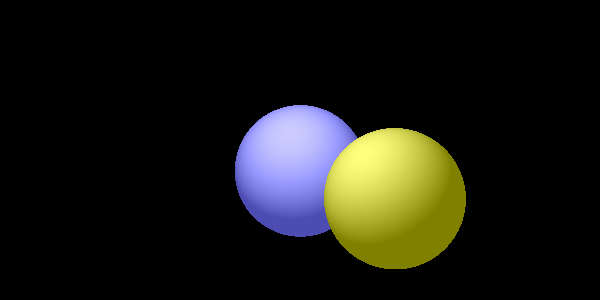
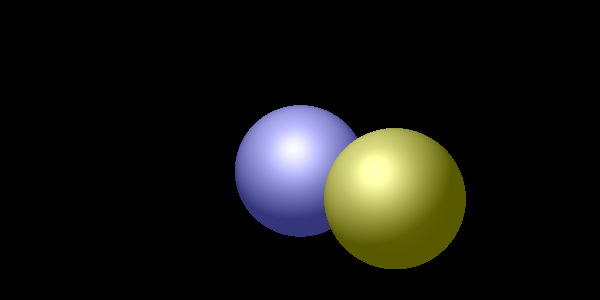
specular reflection

Changed region(s): [[0.39, 0.33, 0.78, 0.9]]

diff --git a/raytracer.py b/raytracer.py
@@ -1,4 +1,5 @@
 import torch
+from torch.nn.functional import normalize
 
 shaded = lambda im: (im != 0).any(dim=-1)
 
@@ -46,21 +47,21 @@ class Camera:
         origin = torch.stack([d, -w, -h], dim=-1)
         eye = torch.tensor([-self.focus, 0, 0])
         dir = origin - eye
-        dir = dir @ ry.T @ rz.T
-        dir = dir / dir.norm(dim=-1, keepdim=True)
+        dir = normalize(dir @ ry.T @ rz.T, dim=-1)
 
         origin = origin @ ry.T @ rz.T
         origin = origin + self.center
 
         return Ray(origin, dir)
     
-
 class Sphere:
-    def __init__(self, center, radius, ambient, diffuse):
+    def __init__(self, center, radius, ambient, diffuse, specular, specular_n):
         self.center = torch.tensor(center)
         self.radius = torch.tensor(radius)
         self.ambient = torch.tensor(ambient)
         self.diffuse = torch.tensor(diffuse)
+        self.specular = torch.tensor(specular)
+        self.specular_n = torch.tensor(specular_n)
     
     def intersect(self, ray):
         ray_to_center = self.center - ray.origin
@@ -73,8 +74,7 @@ class Sphere:
         return hit_point_dist
 
     def shade(self, ray, mask, z_buffer, scene):
-        color = torch.zeros([*ray.dim, 3])
-        color[mask] = self.ambient * scene.ambient
+        ambient = self.ambient * scene.ambient
 
         light_center = [light.center for light in scene.lights]
         light_center = torch.stack(light_center, dim=0).unsqueeze(0)
@@ -84,13 +84,18 @@ class Sphere:
         hit_point = ray.origin + ray.dir * z_buffer.unsqueeze(-1)
         hit_point = hit_point[mask].unsqueeze(1)
         normal = (hit_point - self.center) / self.radius
-        to_light = light_center - hit_point
-        to_light /= to_light.norm(dim=-1, keepdim=True)
+        to_light = normalize(light_center - hit_point, dim=-1)
         inner_prod = (normal * to_light).sum(-1).unsqueeze(-1)
         inner_prod[inner_prod < 0] = 0
         diffuse = self.diffuse * inner_prod * light_color
-        color[mask] += diffuse.sum(dim=1)
-        
+
+        reflection_light = normalize(2 * normal - to_light, dim=-1)
+        inner_prod = (-ray.dir[mask].unsqueeze(1) * reflection_light).sum(dim=-1, keepdim=True)
+        inner_prod[inner_prod < 0] = 0
+        specular = self.specular * inner_prod**self.specular_n * light_color
+
+        color = torch.zeros([*ray.dim, 3])
+        color[mask] += ambient + diffuse.sum(dim=1) + specular.sum(dim=1)
         return color
 
 

diff --git a/run.py b/run.py
@@ -4,11 +4,11 @@ from raytracer import Camera, Light, Sphere, Scene, render
 
 
 background = [0, 0, 0.]
-ambient = [1, 1, 1]
+ambient = [0.7, 0.7, 0.7]
 camera = Camera([0,0,50], [100,0,10], ppi=3)
 light = Light([30, 20, 100], [1, 1, 1])
-blue_sphere2 = Sphere([100, 00, 0], 30, ambient=[0.3, 0.3, 0.7], diffuse=0.5)
-yellow_sphere = Sphere([70, -40, 0], 30, ambient=[0.5, 0.5, 0], diffuse=0.5)
+blue_sphere2 = Sphere([100, 00, 0], 30, ambient=[0.3, 0.3, 0.7], diffuse=0.5, specular=0.3, specular_n=4)
+yellow_sphere = Sphere([70, -40, 0], 30, ambient=[0.5, 0.5, 0], diffuse=0.5, specular=0.3, specular_n=4)
 
 scene = Scene(background, ambient, [blue_sphere2, yellow_sphere], [light])
 
